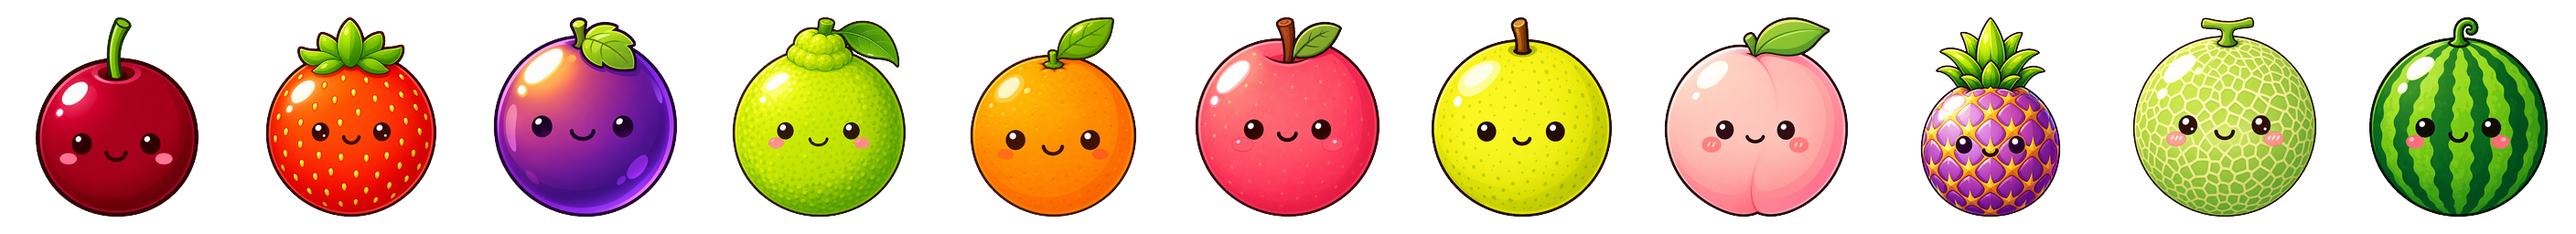
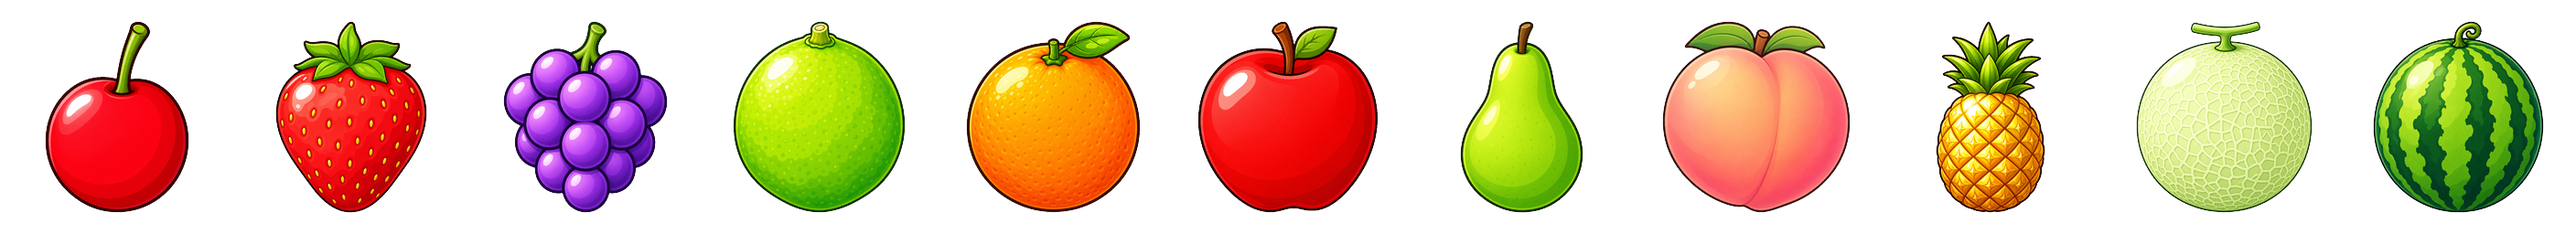
feat(suika): face-less AI fruit bodies + procedural animated faces + squash/stretch
Adds fun/variety and elastic contact physics, per feedback.

- fruits.png regenerated as 11 FACE-LESS glossy cartoon bodies (Floniks/GPT-Image-2,
  keyed transparent) so faces can be dynamic.
- Procedural faces (render.js drawFace): blink on a per-fruit schedule, pupils look
  toward velocity, an open-mouth "happy" reaction pops on merge, per-tier personality
  (eye size/spacing, mouth width, rosy cheeks on even tiers) — infinite expression
  variety instead of one baked smile.
- Squash & stretch juice (game.js updateJuice + render): each fruit tracks a spring
  that squashes on impact (sudden deceleration), stretches while falling fast, and
  bounces back; the sprite + face scale non-uniformly, anchored at the contact point.
  Merge events poke the resulting fruit with a reaction + squash pop.
  Rides on top of the sim's existing real circle physics.

Fallback-guarded; suika 21/21, watersort 24/24; headless Chromium shows the faces
animating over the face-less bodies with zero page errors.

Claude-Session: https://claude.ai/code/session_01LBDs2BcCVUxpvUMBTH3iRR

diff --git a/miniprogram/games/suika/render.js b/miniprogram/games/suika/render.js
@@ -5,6 +5,10 @@
 'use strict';
 var C = require('./config.js');
 
+// Expressive faces are drawn procedurally (blink, look toward motion, react on
+// merge) over the face-less body sprites, so they animate and vary per fruit.
+var USE_FACES = true;
+
 // Optional art assets: set by game.js from platform.getImage. Returns an
 // HTMLImageElement (maybe not yet loaded) or null; rendering falls back to
 // procedural drawing when an image is absent (headless/tests).
@@ -63,22 +67,70 @@ function createRenderer(ctx) {
 
   // draw a fruit of `tier` centred at (x,y) with radius r; uses the sprite sheet
   // when available (cells are square, side = sheet height), else procedural.
-  function sprite(tier, x, y, r, alpha) {
+  function sprite(tier, x, y, r, alpha, sq) {
     var sheet = img('fruits.png');
-    if (sheet) {
-      var cell = sheet.naturalHeight;
-      var sx = Math.min(tier, C.TIER_COUNT - 1) * cell;
-      var d = r * 2.14;
-      if (alpha != null) { ctx.save(); ctx.globalAlpha = alpha; }
-      ctx.drawImage(sheet, sx, 0, cell, cell, x - d / 2, y - d / 2, d, d);
-      if (alpha != null) ctx.restore();
-      return true;
+    if (!sheet) return false;
+    var cell = sheet.naturalHeight;
+    var sx = Math.min(tier, C.TIER_COUNT - 1) * cell;
+    var d = r * 2.14;
+    sq = sq || 0;
+    var scaleX = 1 + 0.7 * sq, scaleY = 1 - 0.7 * sq;   // squash: wide+short; stretch(sq<0): tall+thin
+    ctx.save();
+    if (alpha != null) ctx.globalAlpha = alpha;
+    if (sq) {                                           // anchor near the contact point so squash "sits"
+      var ay = y + r * 0.82;
+      ctx.translate(x, ay); ctx.scale(scaleX, scaleY); ctx.translate(-x, -ay);
     }
-    return false;
+    ctx.drawImage(sheet, sx, 0, cell, cell, x - d / 2, y - d / 2, d, d);
+    ctx.restore();
+    return true;
+  }
+
+  // procedural animated face drawn over a (face-less) fruit body: blinks, looks
+  // toward motion, reacts on merge, and deforms with the squash. Per-tier
+  // personality (eye size/spacing, mouth, cheeks) keeps 11 fruits characterful.
+  function drawFace(f) {
+    var x = f.x, y = f.y, r = f.r, sq = f.sq || 0, t = f.tier;
+    var react = f.react || 0, blink = f.blink || 0;
+    var eyeR = r * (0.15 + (t % 3) * 0.012);
+    var eyeDX = r * (0.30 + (t % 4) * 0.018);
+    var eyeY = y - r * 0.05;
+    var lookX = (f.lookx || 0) * eyeR * 0.55, lookY = (f.looky || 0) * eyeR * 0.55;
+    ctx.save();
+    var ay = y + r * 0.82, scaleX = 1 + 0.7 * sq, scaleY = 1 - 0.7 * sq;
+    ctx.translate(x, ay); ctx.scale(scaleX, scaleY); ctx.translate(-x, -ay);
+    ctx.lineCap = 'round';
+    for (var s = -1; s <= 1; s += 2) {
+      var ex = x + s * eyeDX;
+      if (blink) {
+        ctx.strokeStyle = 'rgba(28,18,24,0.92)'; ctx.lineWidth = Math.max(1.5, r * 0.055);
+        ctx.beginPath(); ctx.arc(ex, eyeY, eyeR * 0.9, 0.15 * Math.PI, 0.85 * Math.PI); ctx.stroke();
+      } else {
+        var er = eyeR * (1 + react * 0.3);
+        ctx.fillStyle = '#ffffff'; ctx.beginPath(); ctx.ellipse(ex, eyeY, er * 0.82, er, 0, 0, 6.283); ctx.fill();
+        ctx.fillStyle = '#20161c'; ctx.beginPath(); ctx.arc(ex + lookX, eyeY + lookY, er * 0.52, 0, 6.283); ctx.fill();
+        ctx.fillStyle = 'rgba(255,255,255,0.92)'; ctx.beginPath(); ctx.arc(ex + lookX - er * 0.2, eyeY + lookY - er * 0.22, er * 0.17, 0, 6.283); ctx.fill();
+      }
+    }
+    if (t % 2 === 0) {   // rosy cheeks on even tiers
+      ctx.fillStyle = 'rgba(255,120,140,0.32)';
+      ctx.beginPath(); ctx.arc(x - eyeDX * 1.2, eyeY + r * 0.17, r * 0.085, 0, 6.283);
+      ctx.arc(x + eyeDX * 1.2, eyeY + r * 0.17, r * 0.085, 0, 6.283); ctx.fill();
+    }
+    var my = y + r * 0.16;
+    if (react > 0.3) {   // open happy mouth on a merge reaction
+      ctx.fillStyle = 'rgba(90,30,40,0.92)';
+      ctx.beginPath(); ctx.ellipse(x, my, r * 0.15, r * 0.12 * (0.6 + react * 0.7), 0, 0, Math.PI); ctx.fill();
+    } else {
+      ctx.strokeStyle = 'rgba(28,18,24,0.9)'; ctx.lineWidth = Math.max(1.5, r * 0.05);
+      var mw = r * (0.17 + (t % 3) * 0.02);
+      ctx.beginPath(); ctx.arc(x, my - r * 0.05, mw, 0.15 * Math.PI, 0.85 * Math.PI); ctx.stroke();
+    }
+    ctx.restore();
   }
 
   function drawFruit(f) {
-    if (sprite(f.tier, f.x, f.y, f.r, null)) return;
+    if (sprite(f.tier, f.x, f.y, f.r, null, f.sq)) { if (USE_FACES && f.r > 7) drawFace(f); return; }
     var col = C.colorOf(f.tier);
     ctx.beginPath(); ctx.arc(f.x, f.y, f.r, 0, Math.PI * 2);
     ctx.fillStyle = col; ctx.fill();

diff --git a/miniprogram/games/suika/game.js b/miniprogram/games/suika/game.js
@@ -152,6 +152,47 @@ function createGame(platform) {
     }
   }
 
+  // per-fruit "juice" state (squash/stretch + face) keyed by fruit id, advanced
+  // each frame and annotated onto the fruit objects for the renderer.
+  function updateJuice(dt) {
+    if (!G.juice) G.juice = {};
+    var binW = G.sim.state.bin.w, fs = G.sim.state.fruit, seen = {};
+    for (var i = 0; i < fs.length; i++) {
+      var f = fs[i];
+      var st = G.juice[f.id];
+      if (!st) st = G.juice[f.id] = { s: 0, v: 0, psp: 0, nextBlink: G.clock + 1 + Math.random() * 4, react: 0 };
+      var sp = Math.hypot(f.vx, f.vy);
+      var dec = st.psp - sp;                                  // deceleration = impact
+      if (dec > binW * 0.7) st.v += Math.min(0.55, dec / (binW * 3));   // squash pop on impact
+      var target = -Math.min(0.22, Math.max(0, f.vy) / (binW * 4) * 0.4); // stretch while falling
+      st.v += (target - st.s) * 55 * dt;                     // spring
+      st.v *= Math.pow(0.015, dt);                           // damping
+      st.s = Math.max(-0.3, Math.min(0.55, st.s + st.v * dt));
+      st.psp = sp;
+      // blink schedule
+      var blinking = (G.clock >= st.nextBlink && G.clock < st.nextBlink + 0.12);
+      if (G.clock >= st.nextBlink + 0.12) st.nextBlink = G.clock + 2 + Math.random() * 4;
+      st.react = Math.max(0, st.react - dt * 2.2);
+      // annotate for the renderer
+      f.sq = st.s;
+      f.blink = blinking ? 1 : 0;
+      f.lookx = Math.max(-1, Math.min(1, f.vx / (binW * 1.6)));
+      f.looky = Math.max(-1, Math.min(1, f.vy / (binW * 1.6)));
+      f.react = st.react;
+      seen[f.id] = 1;
+    }
+    for (var key in G.juice) if (!seen[key]) delete G.juice[key];
+  }
+  function pokeReact(x, y, tier) {                            // merged fruit reacts (happy pop)
+    var fs = G.sim.state.fruit, best = null, bd = 1e18;
+    for (var i = 0; i < fs.length; i++) {
+      var f = fs[i]; if (f.tier !== tier) continue;
+      var d = (f.x - x) * (f.x - x) + (f.y - y) * (f.y - y);
+      if (d < bd) { bd = d; best = f; }
+    }
+    if (best) { var st = G.juice[best.id]; if (st) { st.react = 1; st.v += 0.45; } }
+  }
+
   function update(dt, tSec) {
     if (!G.sim) return;
     if (!(dt > 0) || dt > 0.1) dt = dt > 0 ? 0.1 : 0; // clamp big hitches
@@ -160,8 +201,9 @@ function createGame(platform) {
     if (ev.merges || ev.pops) G.flash = Math.min(1, G.flash + 0.5 * (ev.merges + ev.pops));
     G.flash *= 0.9;
     if (!G.parts) G.parts = [];
+    updateJuice(dt);
     var evs = G.sim.state.mergeEvents;
-    if (evs && evs.length) { for (var k = 0; k < evs.length; k++) spawnBurst(evs[k].x, evs[k].y, evs[k].tier, evs[k].pop); evs.length = 0; }
+    if (evs && evs.length) { for (var k = 0; k < evs.length; k++) { spawnBurst(evs[k].x, evs[k].y, evs[k].tier, evs[k].pop); pokeReact(evs[k].x, evs[k].y, evs[k].tier); } evs.length = 0; }
     var grav = G.sim.state.bin.w * 2.2;
     for (var pi = G.parts.length - 1; pi >= 0; pi--) {
       var p = G.parts[pi]; p.life += dt;
